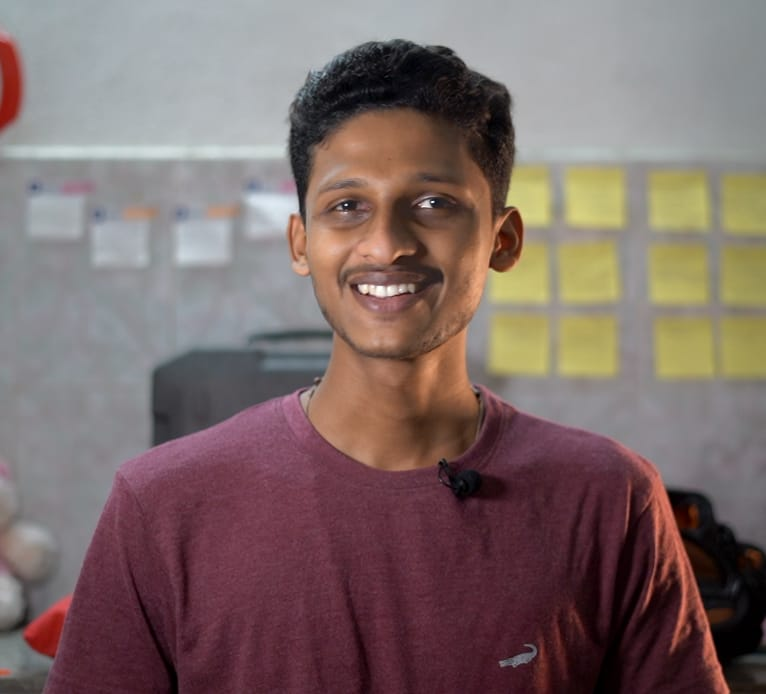
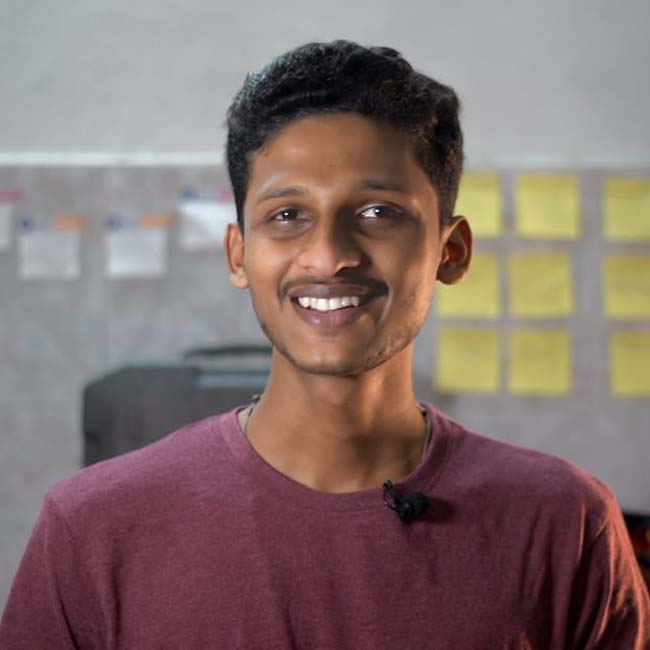
spekaer pics resized

diff --git a/index.html b/index.html
@@ -453,7 +453,7 @@ body{
 
           <div class="team-item wow fadeInUp" data-wow-delay="0.4s">
             <div class="team-img">
-              <img class="img-fluid" src="assets/img/team/anu.jpg" alt="">
+              <img class="img-fluid" src="assets/img/team/anusree.jpg" alt="">
               <div class="team-overlay">
                 <div class="overlay-social-icon text-center">
                   <ul class="social-icons">
@@ -478,7 +478,7 @@ body{
 
           <div class="team-item wow fadeInUp" data-wow-delay="0.6s">
             <div class="team-img">
-              <img class="img-fluid" src="assets/img/team/manu.jpg" alt="Anusree">
+              <img class="img-fluid" src="assets/img/team/manu.jpg" alt="Manu Francis">
               <div class="team-overlay">
                 <div class="overlay-social-icon text-center">
                   <ul class="social-icons">
